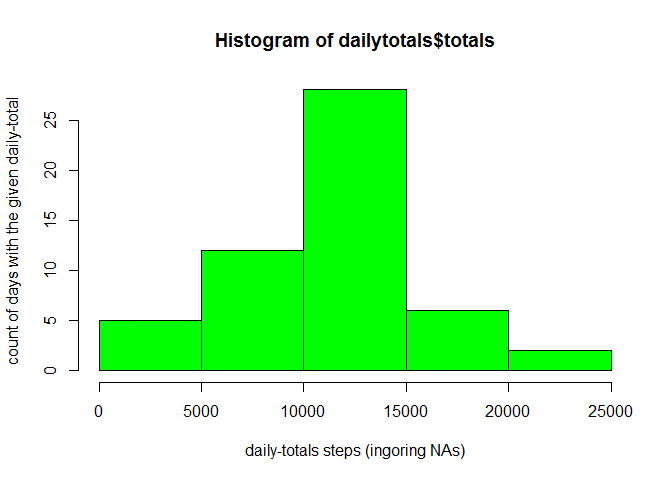
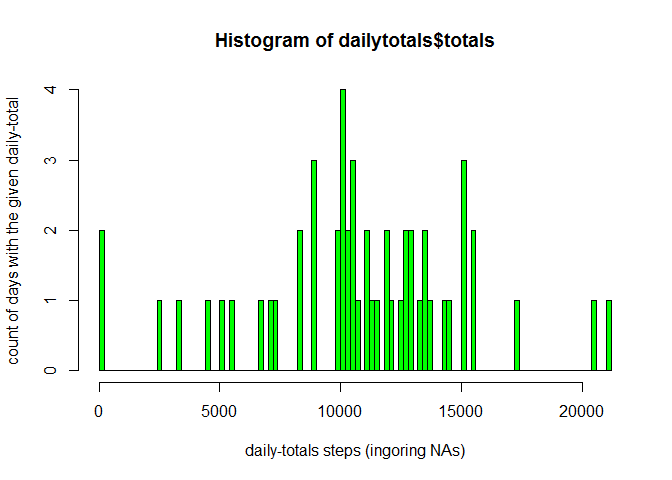
commit lcl2gh

diff --git a/PA1_template.html b/PA1_template.html
@@ -10,6 +10,7 @@
 
 <meta name="author" content="Mark Sandstrom" />
 
+<meta name="date" content="2016-01-09" />
 
 <title>Project Assignment 1</title>
 
@@ -63,7 +64,7 @@ img {
 <div id="header">
 <h1 class="title">Project Assignment 1</h1>
 <h4 class="author"><em>Mark Sandstrom</em></h4>
-<h4 class="date"><em>Friday, January 08, 2016</em></h4>
+<h4 class="date"><em>2016-01-09</em></h4>
 </div>
 
 
@@ -95,22 +96,13 @@ any(is.na(df))</code></pre>
 <p><strong>2. Histogram of the total number of steps taken each day</strong></p>
 <p>To histogram the daily totals of the <code>steps</code> with measurement intervals with missing values (NAs) for <code>steps</code> ignored:</p>
 <pre class="r"><code>dailytotals=ddply(df, c('date'), summarise, totals=sum(steps))
-hist(dailytotals$totals, col='green', xlab='daily-totals steps (ingoring NAs)', ylab='count of days with the given daily-total')</code></pre>
[1 lines of base64/hex data omitted]
+hist(dailytotals$totals, 100, col='green', xlab='daily-totals steps (ingoring NAs)', ylab='count of days with the given daily-total')</code></pre>
[1 lines of base64/hex data omitted]
 <p><strong>3. Mean and median number of steps taken each day</strong></p>
 <p>To report the daily means and medians of <code>steps</code> taken:</p>
-<pre class="r"><code>dailyaves=ddply(df, c('date'), summarise, mean=mean(steps), median=median(steps))
-summary(round(dailyaves$mean))</code></pre>
+<pre class="r"><code>summary(round(dailytotals$totals))</code></pre>
 <pre><code>##    Min. 1st Qu.  Median    Mean 3rd Qu.    Max. 
-##    0.00   31.00   37.00   37.34   46.00   74.00</code></pre>
-<pre class="r"><code>summary(dailyaves$median)</code></pre>
-<pre><code>##    Min. 1st Qu.  Median    Mean 3rd Qu.    Max. 
-##       0       0       0       0       0       0</code></pre>
-<p>Thus:</p>
-<ul>
-<li><p>the <strong>mean</strong> of daily-averages of <code>steps</code> is: <strong>37.34</strong>;</p></li>
-<li><p>the <strong>median</strong> of daily-averages of <code>steps</code> is: <strong>37.00</strong>.</p></li>
-</ul>
+##      41    8841   10760   10770   13290   21190</code></pre>
 <p><strong>4. Time series plot of the average number of steps taken</strong></p>
 <p>To see any pattern in the daily averages of <code>steps</code>:</p>
 <pre class="r"><code>plot(dailyaves$date, dailyaves$mean, xlab='date', ylab='daily averages of steps for 5-minute intervals (omitting NAs)')
@@ -135,8 +127,8 @@ any(is.na(dfim))</code></pre>
 <p><strong>7. Histogram of the total number of steps taken each day after missing values are imputed</strong></p>
 <p>To histogram the daily totals of the <code>steps</code> with measurement intervals after missing values (NAs) for <code>steps</code> imputed per above:</p>
 <pre class="r"><code>dailytotalsim=ddply(dfim, c('date'), summarise, totals=sum(steps))
-hist(dailytotalsim$totals, col='blue', xlab='daily-total steps (NAs replaced by interval-means)', ylab='count of days with the given daily-total')</code></pre>
[1 lines of base64/hex data omitted]
+hist(dailytotalsim$totals, 100, col='blue', xlab='daily-total steps (NAs replaced by interval-means)', ylab='count of days with the given daily-total')</code></pre>
[1 lines of base64/hex data omitted]
 <p><strong>8. Panel plot comparing the average number of steps taken per 5-minute interval across weekdays and weekends</strong></p>
 <p>To see if there is a difference in per-interval-averages of steps taken between weekdays (Mon-Fri) and weekends (Sat-Sun):</p>
 <pre class="r"><code>dfwd=mutate(df, wd=timeDate::isWeekday(date))

diff --git a/PA1_template.md b/PA1_template.md
@@ -1,6 +1,6 @@
 # Project Assignment 1
 Mark Sandstrom  
-Friday, January 08, 2016  
+2016-01-09  
 Reproducing results on analyzing steps taken by a volunteer at different times of day
 ---
 **1. Code for reading in the dataset and/or processing the data**
@@ -54,7 +54,7 @@ To histogram the daily totals of the `steps` with measurement intervals with mis
 
 ```r
 dailytotals=ddply(df, c('date'), summarise, totals=sum(steps))
-hist(dailytotals$totals, col='green', xlab='daily-totals steps (ingoring NAs)', ylab='count of days with the given daily-total')
+hist(dailytotals$totals, 100, col='green', xlab='daily-totals steps (ingoring NAs)', ylab='count of days with the given daily-total')
 ```
 
 ![](PA1_template_files/figure-html/unnamed-chunk-3-1.png) 
@@ -64,28 +64,13 @@ hist(dailytotals$totals, col='green', xlab='daily-totals steps (ingoring NAs)', 
 To report the daily means and medians of `steps` taken:
 
 ```r
-dailyaves=ddply(df, c('date'), summarise, mean=mean(steps), median=median(steps))
-summary(round(dailyaves$mean))
+summary(round(dailytotals$totals))
 ```
 
 ```
 ##    Min. 1st Qu.  Median    Mean 3rd Qu.    Max. 
-##    0.00   31.00   37.00   37.34   46.00   74.00
+##      41    8841   10760   10770   13290   21190
 ```
-
-```r
-summary(dailyaves$median)
-```
-
-```
-##    Min. 1st Qu.  Median    Mean 3rd Qu.    Max. 
-##       0       0       0       0       0       0
-```
-Thus:
-
-- the **mean** of daily-averages of `steps` is: **37.34**;
-
-- the **median** of daily-averages of `steps` is: **37.00**.
 
 **4. Time series plot of the average number of steps taken**
 
@@ -141,7 +126,7 @@ To histogram the daily totals of the `steps` with measurement intervals after mi
 
 ```r
 dailytotalsim=ddply(dfim, c('date'), summarise, totals=sum(steps))
-hist(dailytotalsim$totals, col='blue', xlab='daily-total steps (NAs replaced by interval-means)', ylab='count of days with the given daily-total')
+hist(dailytotalsim$totals, 100, col='blue', xlab='daily-total steps (NAs replaced by interval-means)', ylab='count of days with the given daily-total')
 ```
 
 ![](PA1_template_files/figure-html/unnamed-chunk-9-1.png) 
